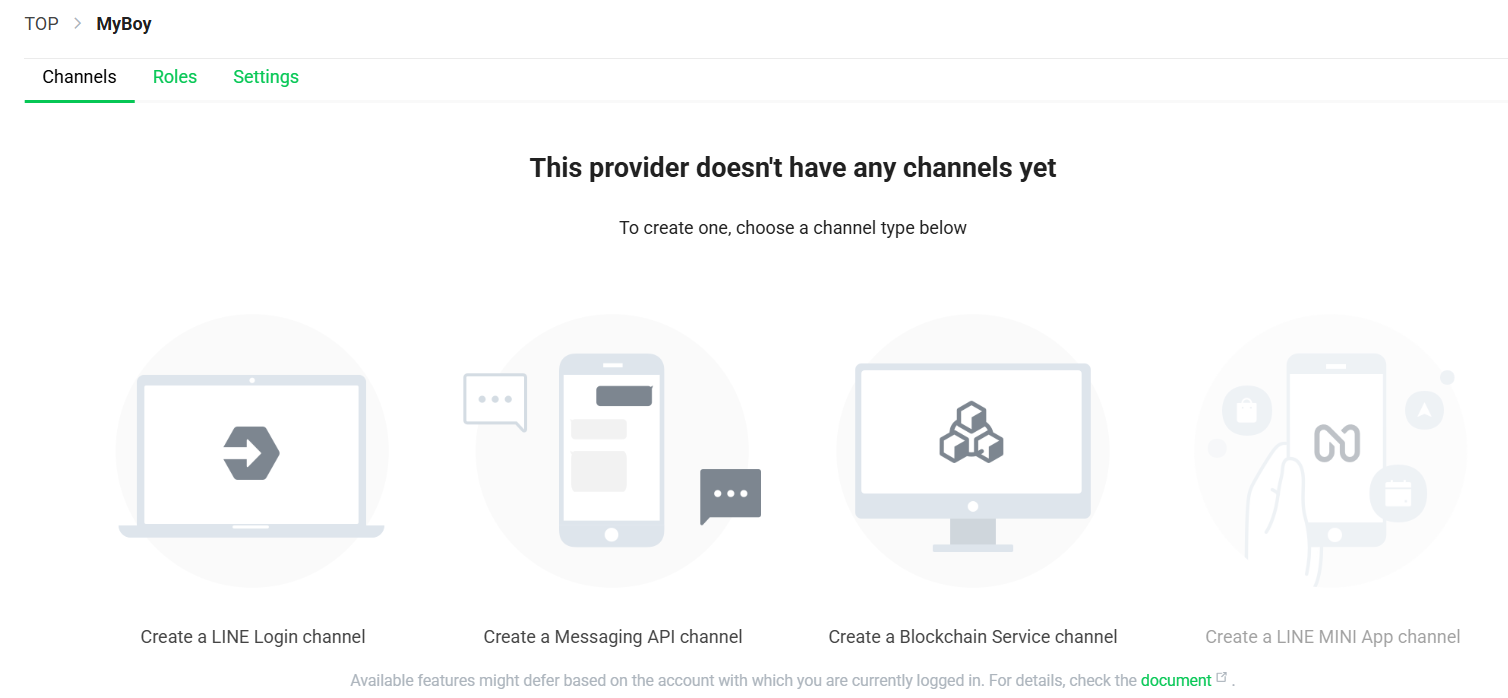
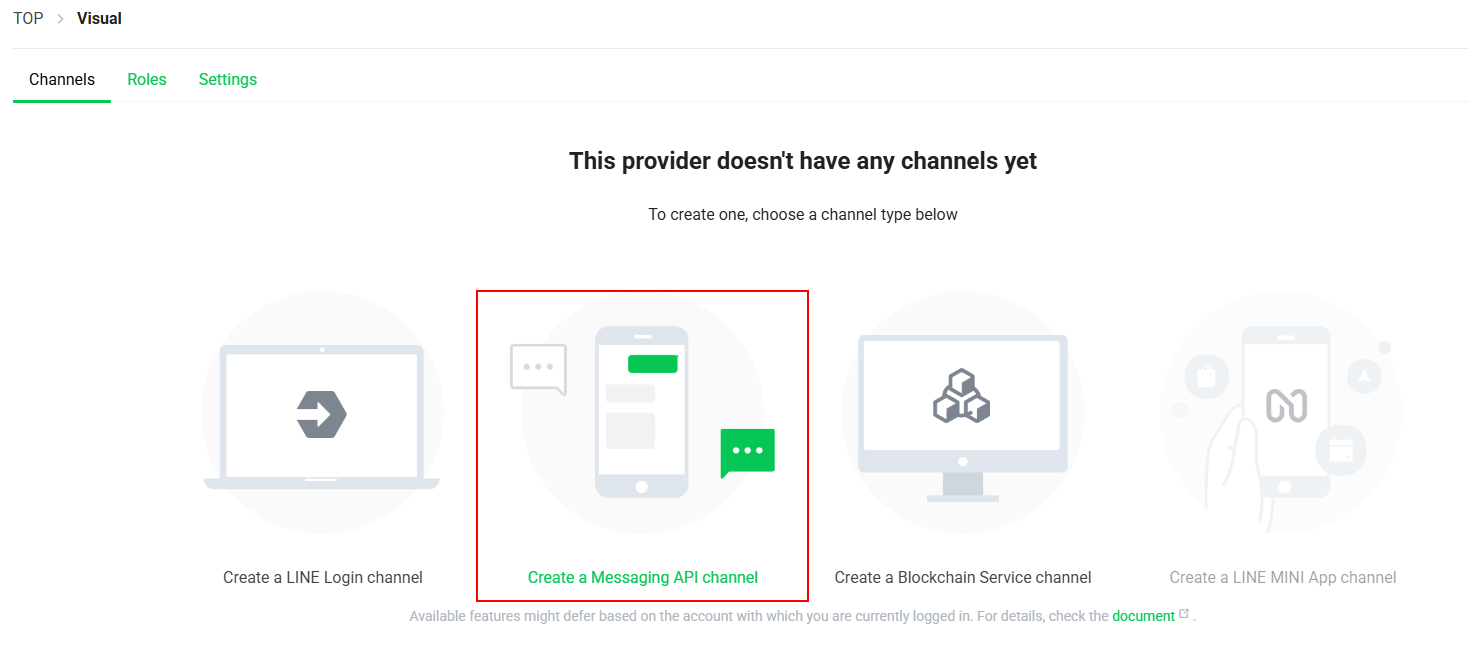
update

diff --git a/README.md b/README.md
@@ -20,5 +20,7 @@ Line bot 練習，檢查透過 curl 檢查特定網站並傳 Line 至使用者
 
 	![Provider 顯示](https://github.com/wjtvbm/Check_URL/blob/main/Pictures/Line_bot_Provider_show.png)
 
-3. 建立 Channel，optional 的都可以不用填。
+3. 建立 Messaging API Channel，optional 的都可以不用填。
 ![建立 Channel](https://github.com/wjtvbm/Check_URL/blob/main/Pictures/Line_bot_Channel.png)
+
+4. 
